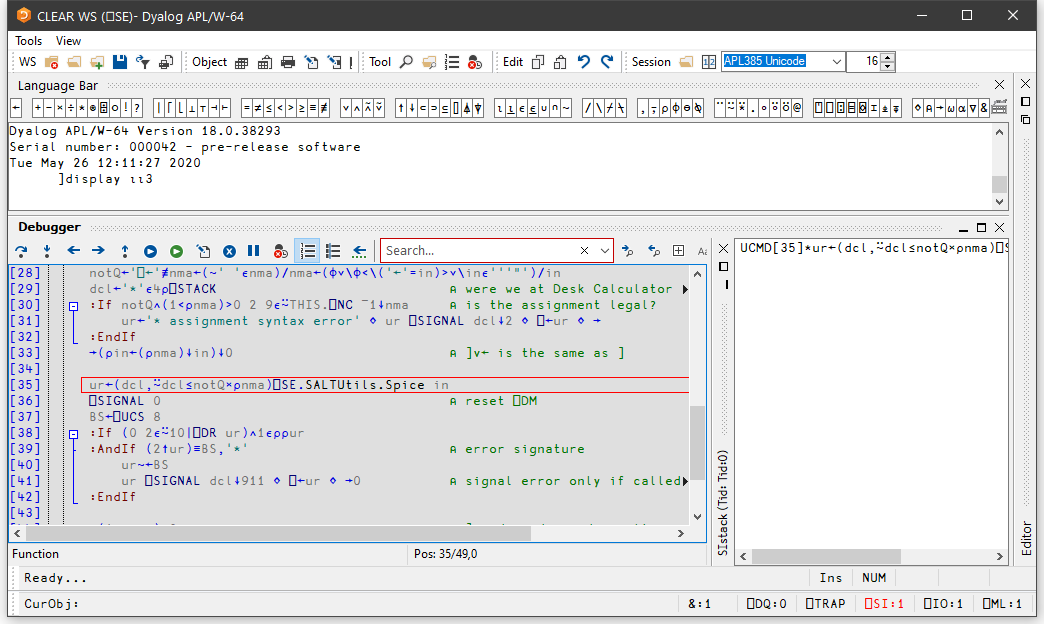
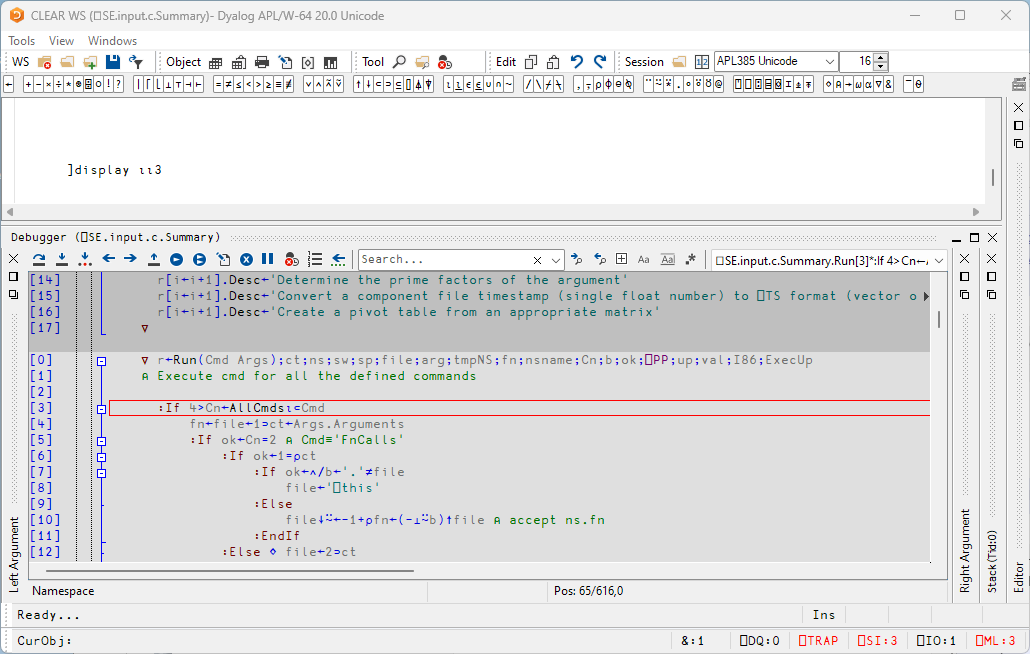
New screenshots and unmess table on tracer page

diff --git a/windows-ui-guide/docs/tracer/index.md b/windows-ui-guide/docs/tracer/index.md
@@ -4,13 +4,13 @@ The Tracer is a visual debugging aid that allows you to step through an applicat
 
 ## Tracing an expression
 
-Firstly, you may explicitly trace an expression that executes one or more defined functions or operators by typing the expression then pressing Ctrl+Enter (TC) or by selecting Trace from the Action menu. This lets you step through the execution of an expression from the beginning.
+Firstly, you may explicitly trace an expression that executes one or more defined functions or operators by typing the expression then pressing <kbd>Ctrl</kbd>+<kbd>Enter</kbd> (**&lt;TC&gt;**) or by selecting Trace from the Action menu. This lets you step through the execution of an expression from the beginning.
 
-In the same way as when you execute a statement by pressing Enter, the expression is (if necessary) copied down to the input line and then executed. However, if the expression includes a reference to an unlocked defined function or operator, execution halts at its first line and a Trace window containing the suspended function or operator is displayed on the screen. The cursor is positioned to the left of the first line which is highlighted.
+In the same way as when you execute a statement by pressing <kbd>Enter</kbd>, the expression is (if necessary) copied down to the input line and then executed. However, if the expression includes a reference to an unlocked defined function or operator, execution halts at its first line and a Trace window containing the suspended function or operator is displayed on the screen. The cursor is positioned to the left of the first line which is highlighted.
 
 ## Naked Trace
 
-The second way to invoke the Tracer is when you have a suspended function in the state indicator and you press Ctrl+Enter (TC) on the empty input line. This is termed *naked trace*. The same thing can be achieved by selecting *Trace* from the *Action* menu on the Session Window.
+The second way to invoke the Tracer is when you have a suspended function in the state indicator and you press <kbd>Ctrl</kbd>+<kbd>Enter</kbd> (**&lt;TC&gt;**) on the empty input line. This is termed *naked trace*. The same thing can be achieved by selecting *Trace* from the *Action* menu on the Session Window.
 
 The effect of naked trace is to open the Tracer and to position the cursor on the currently suspended line. It is exactly as if you had traced to that point from the Input Line expression whose execution caused the suspension.
 
@@ -34,7 +34,7 @@ These alternatives are discussed later in this Chapter.
 
 The Tracer is implemented as a single dockable window that displays the function that is currently being executed. There are two subsidiary information windows which are also fully dockable. The first of these (*SIStack*) displays the current function calling stack; the second (*Threads*) displays a list of running threads.
 
-In the default Session files, the Tracer is docked along the bottom edge of the Session window. When you invoke the Tracer, it springs up as illustrated below. In this example, the function being traced is `⎕SE.UCMD`, which is invoked by typing a user-command, in this case `]display`.
+In the default Session files, the Tracer is docked along the bottom edge of the Session window. When you invoke the Tracer, it springs up as illustrated below. In this example, the function being traced is `⎕SE.UCMD`, which is invoked by typing a user-command, in this case `]APLCart`.
 
 ![](../img/tracer-1.png)
 
@@ -44,62 +44,52 @@ In the default layout, the *SIstack* window is displayed alongside the main Trac
 
 The Tracer may be controlled from the keyboard, or by using the *Trace Tools* which are arranged along the title bar of the Debugger window. Note that the button names are solely for reference purposes in the description that follows.
 
-|Button||Name|Key Code|Keystroke|Description|
-|---|---|---|---|---|---|
-|![](../img/trace-tools-exec-icon.png)|Exec|ER|Enter|Execute expression|
-|![](../img/trace-tools-trace-icon.png)|Trace|TC|Ctrl+Enter|Trace expression|
-|![](../img/trace-tools-back-icon.png)|Back|BK|Ctrl+Shift+Bksp|Go back one line|
-|![](../img/trace-tools-fwd-icon.png)|Fwd|FD|Ctrl+Shift+Enter|Skip current line|
-|![](../img/trace-tools-continue-icon.png)|Continue|BH|&nbsp;|Stop on next line of calling function|
-|![](../img/trace-tools-restart-icon.png)|Restart|RM|`→⎕LC`|Continue execution of this thread|
-|![](../img/trace-tools-resart-all-threads-icon.png)|Restart all|&nbsp;|&nbsp;|Continue execution of all threads|
-|![](../img/trace-tools-edit-icon.png)|Edit|ED|Shift+Enter|Edit name|
-|![](../img/trace-tools-exit-icon.png)|Exit|EP|Esc|Quit this function|
-|![](../img/trace-tools-intr-icon.png)|Intr|&nbsp;|Ctrl+Pause|Interrupt|
-|![](../img/trace-tools-reset-icon.png)|Reset|CB|&nbsp;|Clear trace/stop/monitor for this object|
-|![](../img/editor-line-numbers-icon.png)|&nbsp;|LN|&nbsp;|Toggle line numbers|
-|![](../img/editor-next-match-icon.png)|&nbsp;|&nbsp;|&nbsp;|Search for next match|
-|![](../img/editor-previous-match-icon.png)|&nbsp;|&nbsp;|&nbsp;|Search for previous match|
-|![](../img/editor-search-hidden-text-icon.png)|&nbsp;|&nbsp;|&nbsp;|Search hidden text|
-|![](../img/editor-match-case-icon.png)|&nbsp;|&nbsp;|&nbsp;|Match case|
-|![](../img/editor-match-whole-word-icon.png)|&nbsp;|&nbsp;|&nbsp;|Match whole word|
-|![](../img/editor-use-regular-expressions-icon.png)|&nbsp;|&nbsp;|&nbsp;|Use Regular Expressions|
+|Button|Name|Key Code|Keystroke|Description|
+|---|---|---|---|---|
+|![](../img/trace-theme-04-00.png)|Exec|**&lt;ER&gt;**|<kbd>Enter</kbd>|Execute expression|
+|![](../img/trace-theme-05-00.png)|Trace|**&lt;TC&gt;**|<kbd>Ctrl</kbd>+<kbd>Enter</kbd>|Trace expression|
+|![](../img/trace-theme-00-00.png)|Back|**&lt;BK&gt;**|<kbd>Ctrl</kbd>+<kbd>Shift</kbd>+<kbd>Bksp</kbd>|Go back one line|
+|![](../img/trace-theme-01-00.png)|Fwd|**&lt;FD&gt;**|<kbd>Ctrl</kbd>+<kbd>Shift</kbd>+<kbd>Enter</kbd>|Skip current line|
+|![](../img/trace-theme-06-00.png)|Continue|**&lt;BH&gt;**|&nbsp;|Stop on next line of calling function|
+|![](../img/trace-theme-07-00.png)|Restart|**&lt;RM&gt;**|`→⎕LC`|Continue execution of this thread|
+|![](../img/trace-theme-10-00.png)|Restart all|&nbsp;|&nbsp;|Continue execution of all threads|
+|![](../img/trace-theme-03-00.png)|Edit|**&lt;ED&gt;**|<kbd>Shift</kbd>+<kbd>Enter</kbd>|Edit name|
+|![](../img/trace-theme-02-00.png)|Exit|**&lt;EP&gt;**|<kbd>Esc</kbd>|Quit this function|
+|![](../img/trace-theme-08-00.png)|Intr|&nbsp;|<kbd>Ctrl</kbd>+<kbd>Pause</kbd>|Interrupt|
+|![](../img/trace-theme-09-00.png)|Reset|**&lt;CB&gt;**|&nbsp;|Clear trace/stop/monitor for this object|
+|![](../img/trace-theme-14-00.png)|&nbsp;|**&lt;LN&gt;**|&nbsp;|Toggle line numbers|
+|![](../img/trace-theme-16-00.png)|&nbsp;|&nbsp;|&nbsp;|Search for next match|
+|![](../img/trace-theme-15-00.png)|&nbsp;|&nbsp;|&nbsp;|Search for previous match|
+|![](../img/trace-theme-17-00.png)|&nbsp;|&nbsp;|&nbsp;|Search hidden text|
+|![](../img/trace-theme-21-00.png)|&nbsp;|&nbsp;|&nbsp;|Match case|
+|![](../img/trace-theme-22-00.png)|&nbsp;|&nbsp;|&nbsp;|Match whole word|
+|![](../img/trace-theme-23-00.png)|&nbsp;|&nbsp;|&nbsp;|Use Regular Expressions|
 
-Using the Trace Tools, you can **single-step** through the function or operator by clicking the *Exec* and/or *Trace* buttons. If you click *Exec* the current line of the function or operator is executed and the system halts at the next line. If you click *Trace*, the current line is executed but any defined functions or operators referenced on that line are themselves traced. After execution of the line the system again halts at the next one. Using the keyboard, the same effect can be achieved by pressing Enter or Ctrl+Enter.
+Using the Trace Tools, you can **single-step** through the function or operator by clicking the *Exec* and/or *Trace* buttons. If you click *Exec* the current line of the function or operator is executed and the system halts at the next line. If you click *Trace*, the current line is executed but any defined functions or operators referenced on that line are themselves traced. After execution of the line the system again halts at the next one. Using the keyboard, the same effect can be achieved by pressing <kbd>Enter</kbd> or <kbd>Ctrl</kbd>+<kbd>Enter</kbd>.
 
-The illustration below shows the state of execution having clicked *Exec* 16 times to reach `⎕SE.UCMD[17]`.
+The illustration below shows the state of execution having clicked *Exec*, *Trace*, *Exec* 19 times:
 
 ![](../img/tracer-2.png)
 
-Execution Reached `⎕SE.UCMD[35]`
-
-The next illustration shows the result of clicking *Trace* at this point. This caused the system to trace into `⎕SE.SaltUtils.Spice`, the function called from `⎕SE.UCMD[35]`.
+The next illustration shows the result of clicking *Trace* at this point. This caused the system to trace into `⎕SE.Dyalog.APLCart`, the function called from `⎕SE.UCMD[35]`.
 
 Notice how each function call on the stack is represented by an item in the *SIstack* window.
 
-![](../img/tracer-3.png)
-
-Execution Reached `⎕SE.SALTUtils.Spice[1]`
-
-The illustration below shows the state of execution having traced deeper into the system.
-
 ![](../img/tracer-4.png)
-
-Execution reached four levels deep
 
 At this stage, the state indicator is as follows:
 ```apl
-
       )SI
-⎕SE.SALT.Load[1]*
-⎕SE.SALTUtils.Spice[249]
-⎕SE.UCMD[35]
-
+⎕SE.Dyalog.Utils.APLcart[1]*
+⎕SE.input.c.APLcart.Run[47]
+⍎
+⎕SE.SALTUtils.CallUserCode[0]
+⎕SE.UCMD[2]
 ```
 
 ## Controlling Execution
 
-The point of execution may be moved by clicking the *Back* and *Fwd* buttons in the *Trace Tools* window or, using the keyboard, by pressing Ctrl+Shift+Bksp and Ctrl+Shift+Enter.  Notice however that these buttons do not themselves change the state indicator or the display in the *SIStack* window. This happens only when you restart execution from the new point.
+The point of execution may be moved by clicking the *Back* and *Fwd* buttons in the *Trace Tools* window or, using the keyboard, by pressing <kbd>Ctrl</kbd>+<kbd>Shift</kbd>+<kbd>Bksp</kbd> and <kbd>Ctrl</kbd>+<kbd>Shift</kbd>+<kbd>Enter</kbd>.  Notice however that these buttons do not themselves change the state indicator or the display in the *SIStack* window. This happens only when you restart execution from the new point.
 
 You can cut back the stack by clicking the <EP> button in the *Trace Tools* window. This causes execution to be suspended at the start of the line which was previously traced. The same effect can be achieved using the keyboard by pressing Esc. It can also be done by selecting *Exit* from the *File* menu on the Trace Window or by selecting *Close* from its system menu.
 
@@ -113,7 +103,7 @@ Whilst using the Tracer you can skip to the Session or to any Edit window and ba
 
 Unless you move it, the cursor is positioned to the left of the suspended line in the top Trace window.
 
-Depending where the cursor is in the tracer window, pressing Shift+Enter (ED) or selecting *Edit* from the *File* menu may cause an edit window to open.  If the cursor is in the first column of the Trace window, or on whitespace, the Editor is opened on function or operator on top of the stack.  If the cursor in on a name, the Editor is opened on the name under the cursor (point-and-edit).  With the cursor in any other location, no action is undertaken.
+Depending where the cursor is in the tracer window, pressing <kbd>Shift</kbd>+<kbd>Enter</kbd> (**&lt;ED&gt;**) or selecting *Edit* from the *File* menu may cause an edit window to open.  If the cursor is in the first column of the Trace window, or on whitespace, the Editor is opened on function or operator on top of the stack.  If the cursor in on a name, the Editor is opened on the name under the cursor (point-and-edit).  With the cursor in any other location, no action is undertaken.
 
 When you finish editing, the window reverts to a trace window with the new definition of the function or operator displayed.
 
@@ -134,7 +124,6 @@ Break-points are defined by `⎕STOP` and may be toggled on and off in an Edit o
 ## Clearing All Break-Points
 
 ![](../img/trace-theme-09-00.png)
-![](../img/trace-tools-reset-icon.png)
 
 You can clear all break-points by pressing the above button in the Trace Tools window. This in fact resets `⎕STOP` for all functions in the workspace.
 
@@ -149,13 +138,13 @@ If you select the Classic mode Tracer, you may choose between multiple trace win
 The following behaviour is obtained by **deselecting** the *Single Trace Window* option.
 
 - Each function on the SI stack is represented by a separate trace window. The top window contains the function that is currently executing, other windows display functions further up the stack, in the order in which they were called.
-- When you press Ctrl+Enter or click the *Trace* button on a line that calls another function, a new trace window appears on top of the stack and displays the newly called function.
+- When you press <kbd>Ctrl</kbd>+<kbd>Enter</kbd> or click the *Trace* button on a line that calls another function, a new trace window appears on top of the stack and displays the newly called function.
 - When a function exits, its trace window disappears and the focus moves to the previous trace window. When the last function in a traced suspension exits, the last trace window disappears.
 - If you click the *Quit this function* button in the *Trace Tools* window, or press Escape, or close the trace window by clicking on its [X] button or typing Alt-F4, the top trace window disappears and the focus moves to the previous trace window
 - If you close any of the trace windows further down the stack, the stack will be cut back to the corresponding point, that is, to the line of code that called the function whose trace window you closed.
 - The <RM> button removes all the trace windows and resumes execution. The same is achieved by the expression `→⎕LC`. The <CS> button also continues execution, but leaves the trace windows displayed and allows you to watch their progress.
 - If you minimise any of the trace windows, the entire stack is minimised to a single icon, from which it may be restored.
-- If you drag any Trace window with the mouse and at the same time press Ctrl+Shift, the entire set of Trace windows is dragged.
+- If you drag any Trace window with the mouse and at the same time press <kbd>Ctrl</kbd>+<kbd>Shift</kbd>, the entire set of Trace windows is dragged.
 
 Note that a maximum of 50 Trace windows may be displayed.
 
